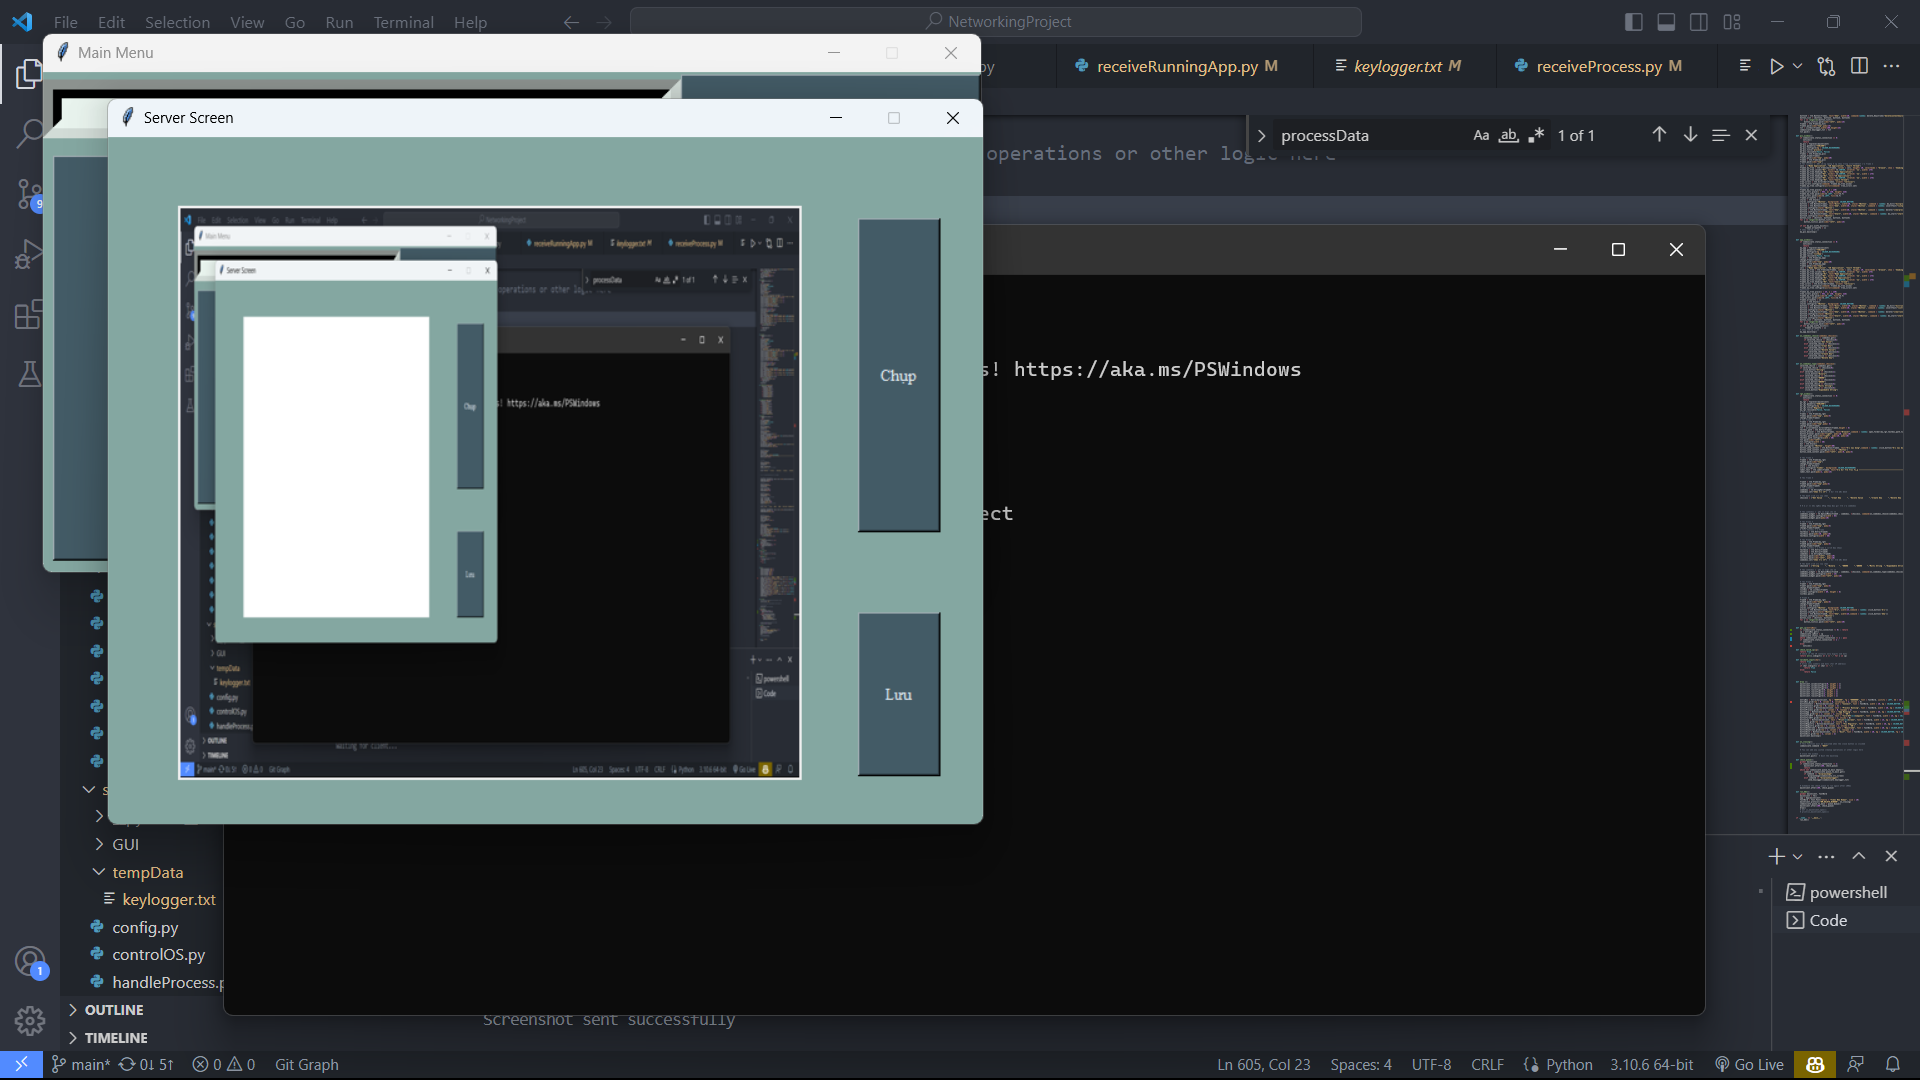
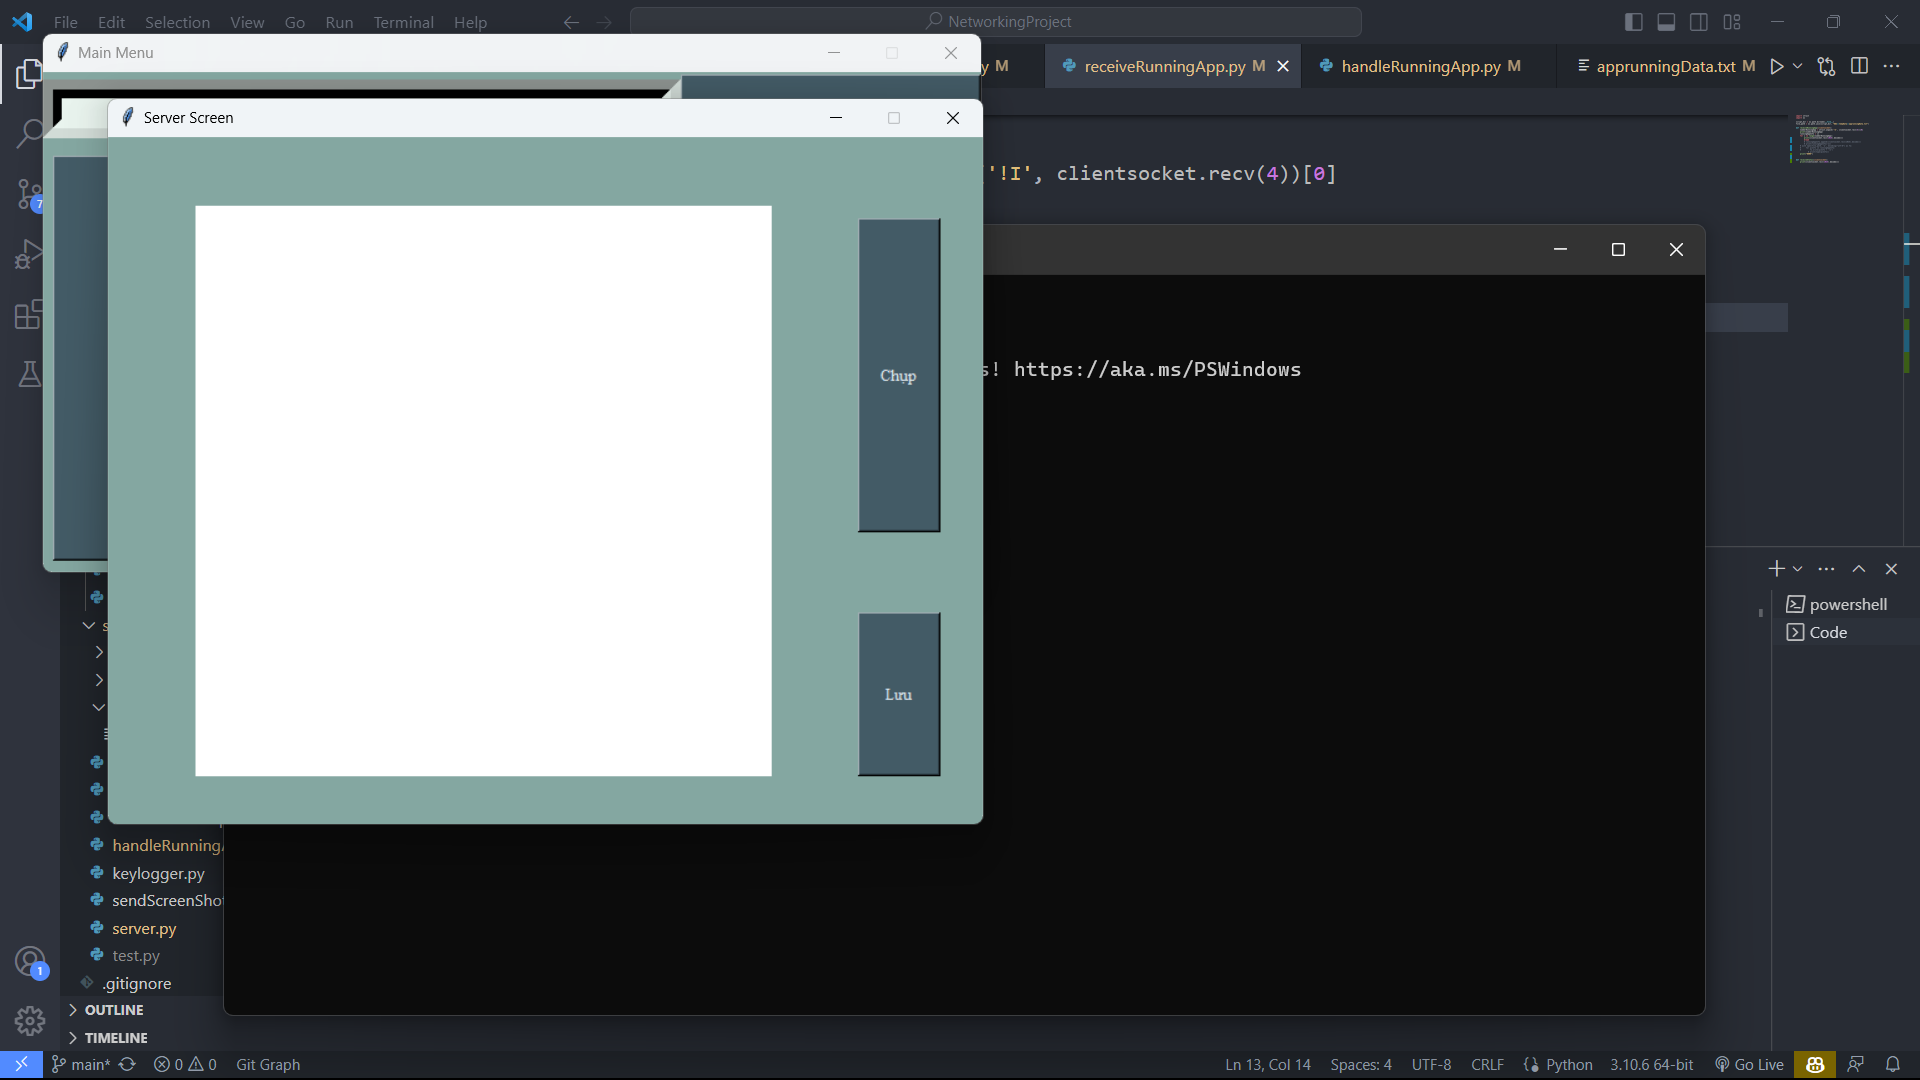
send process, app running (80%))

diff --git a/client/GUI/menuScreen.py b/client/GUI/menuScreen.py
@@ -88,11 +88,11 @@ def notice6(root,s):
     l1 = Label(my_not6,text = 'Đã bật ' + s,bg = COLOUR_BACKGROUND,fg = COLOUR_FONT,activeforeground = COLOUR_AFTER).grid(column=1, row = 1, padx = 50, pady = 70)
 
 
-def kill(s,root,self):
+def kill(s, root, self, fileDataName = "processData.txt"):
     click_button(s)
     if True: 
        delete(s,self)
-       insertText(s,self)
+       insertText(s,self, fileDataName = fileDataName)
        notice4(root,s)
     else:
        notice5(root,s)
@@ -101,16 +101,16 @@ def kill(s,root,self):
     
            
            
-def start(s,root,self):
+def start(s, root, self, fileDataName = "processData.txt"):
     click_button(s)
     if True:
        delete(s,self)
-       insertText(s,self)
+       insertText(s,self, fileDataName = fileDataName)
        notice6(root,s)
     else:
        notice5(root,s)
     
-def kill_window(s,root,self):
+def kill_window(s,root,self,fileDataName = "processData.txt"):
     my_kll = Toplevel(root)
     my_kll.geometry("280x60")
     my_kll.configure(bg = COLOUR_BACKGROUND)
@@ -118,11 +118,11 @@ def kill_window(s,root,self):
     txt = Entry(my_kll,width=30)
     txt.place(x=1, y=10)
     txt.focus()
-    Button(my_kll, text="Kill",width=8,command = lambda: kill(s+" "+txt.get(),my_kll,self)).place(x=200, y=10)
+    Button(my_kll, text="Kill",width=8,command = lambda: kill(s+" "+txt.get(),my_kll,self,fileDataName)).place(x=200, y=10)
 
     
     
-def start_window(s,root,self):
+def start_window(s,root,self,fileDataName = "processData.txt"):
     my_sta = Toplevel(root)
     my_sta.geometry("280x60")
     my_sta.configure(bg = COLOUR_BACKGROUND)
@@ -130,14 +130,14 @@ def start_window(s,root,self):
     txt = Entry(my_sta,width=30)
     txt.place(x=1, y=10)
     txt.focus()
-    Button(my_sta, text = "Start", width = 8,command = lambda: start(s+" "+txt.get(),my_sta,self)).place(x = 200, y = 10)
+    Button(my_sta, text = "Start", width = 8,command = lambda: start(s+" "+txt.get(),my_sta,self,fileDataName)).place(x = 200, y = 10)
 
-def do_kill(s,root,self):
-    kill_window(s,root,self)
+def do_kill(s,root,self,fileDataName = "processData.txt"):
+    kill_window(s,root,self,fileDataName)
     
 
-def do_start(s,root,self):
-    start_window(s,root,self)
+def do_start(s,root,self,fileDataName = "processData.txt"):
+    start_window(s,root,self,fileDataName)
 
 
 def delete(s,self):
@@ -146,11 +146,11 @@ def delete(s,self):
         self.my_tree.delete(i)
     
     
-def insertText(s, self, dataFileName = "processData.txt"):
+def insertText(s, self, fileDataName = "processData.txt"):
     click_button(s)
     delete(s, self)
     script_dir = os.path.dirname(__file__)
-    img_path = os.path.join(script_dir, "tempData\\" + dataFileName)
+    img_path = os.path.join(script_dir, "tempData\\" + fileDataName)
     if communicate.command ==  s:
        self.my_tree.delete()
        with open(img_path, 'r', encoding='utf-8') as file:
@@ -378,12 +378,12 @@ def app_window():
     frame2.arrayInfo = []
     style1 = ttk.Style()
     style1.configure('TButton', background= COLOUR_BUTTON)
-    button1 = ttk.Button(frame1, text="Kill", width=20, style='TButton', command = lambda: do_kill("killrunningapp",my_app,frame2))
-    button2 = ttk.Button(frame1, text="Xem", width=20, style='TButton', command = lambda: insertText("listrunningapp",frame2,dataFileName="apprunningdata.txt"))
+    button1 = ttk.Button(frame1, text="Kill", width=20, style='TButton', command = lambda: do_kill("killrunningapp",my_app,frame2, fileDataName="apprunningdata.txt"))
+    button2 = ttk.Button(frame1, text="Xem", width=20, style='TButton', command = lambda: insertText("listrunningapp",frame2,fileDataName="apprunningdata.txt"))
     button2.configure(style='TButton')
     button3 = ttk.Button(frame1, text="Xóa", width=20, style='TButton', command = lambda: delete("clearrunningapp",frame2))
     button3.configure(style='TButton')
-    button4 = ttk.Button(frame1, text="Start", width=20, style='TButton', command = lambda: do_start("startapp",my_app,frame2))
+    button4 = ttk.Button(frame1, text="Start", width=20, style='TButton', command = lambda: do_start("startapp",my_app,frame2,fileDataName="apprunningdata.txt"))
     button4.configure(style='TButton')
     button_list = [button1, button2, button3, button4]
     for i in range(len(button_list)):

diff --git a/server/handleRunningApp.py b/server/handleRunningApp.py
@@ -1,27 +1,49 @@
 import psutil
 import struct
+import signal
+import os
+import handleProcess
 from pywinauto import Desktop
 
-def listRunningApp(clientsocket):
-
-    windows = Desktop(backend="uia").windows()
-    numberRunningApp = len(windows)
-    if windows[0].window_text() == "Taskbar" : numberRunningApp -= 1
-    clientsocket.sendall(struct.pack('!I', numberRunningApp))
+def killRunningApp(clientsocket, pid):
+    try:
+        os.kill(pid, signal.SIGTERM)
+    except Exception as e:
+        pass
     
-    for w in windows:
-        full_title = w.window_text()
-        if full_title == "Taskbar": continue
-        if ' - ' in full_title:
-            app_name = full_title.rsplit(' - ', 1)[1]
-        else:
-            app_name = full_title
-        proc_id = w.process_id()
+    # Sending a response to the client about the result
+    listRunningApp(clientsocket)
 
-        try:
-            process = psutil.Process(proc_id)
-            thread_count = process.num_threads()
-        except psutil.NoSuchProcess:
-            continue
-        appInfo = f'{proc_id},{app_name},{thread_count}'
-        clientsocket.send(appInfo.encode())
+def checkValidApp(w):
+    try:
+        full_title = w.window_text()
+        if full_title == "Taskbar" or full_title == "": return False
+        proc_id = w.process_id()
+        process = psutil.Process(proc_id)
+        thread_count = process.num_threads()
+    except psutil.NoSuchProcess:
+        return False 
+    if ' - ' in full_title:
+        app_name = full_title.rsplit(' - ', 1)[1]
+    else:
+        app_name = full_title
+    return f'{proc_id},{app_name},{thread_count}'
+
+
+def send_string_list(client_socket, string_list):
+    data = '|'.join(string_list).encode('utf-8')
+    # Send the total byte length first
+    client_socket.sendall(len(data).to_bytes(4, 'big'))
+    # Send the data
+    client_socket.sendall(data)
+
+
+def listRunningApp(clientsocket):
+    windows = Desktop(backend="uia").windows()
+    runningApp = []
+    for w in windows:
+        tmp = checkValidApp(w)
+        if (tmp == False) : continue 
+        runningApp.append(tmp)
+    send_string_list(clientsocket, runningApp)
+    print("DONE")

diff --git a/client/receiveRunningApp.py b/client/receiveRunningApp.py
@@ -4,17 +4,32 @@ import os
 script_dir = os.path.dirname(__file__)
 file_path = os.path.join(script_dir, "GUI\\tempData\\apprunningData.txt") 
 
-def receiveRunningApp(clientsocket):
-    numberRunningApp = struct.unpack('!I', clientsocket.recv(4))[0]
-    print(numberRunningApp)
-    runningAppInfo = []
-    for i in range(numberRunningApp):
-        runningAppInfo.append(clientsocket.recv(1024).decode())
-        # print(runningAppInfo[-1])
-    with open(file_path, 'w', encoding="utf-8") as fo:
-        for pcInfo in runningAppInfo:
-            fo.write(pcInfo + '\n')
-            # print(type(pcInfo))
+def receive_string_list(clientsocket):
+    # First, receive the total byte-length
+    data_length = int.from_bytes(clientsocket.recv(4), 'big')
+
+    chunks = []
+    bytes_received = 0
+
+    while bytes_received < data_length:
+        chunk = clientsocket.recv(min(data_length - bytes_received, 4096))
+        if not chunk:
+            raise ConnectionError("Connection lost before receiving all data")
+        
+        chunks.append(chunk)
+        bytes_received += len(chunk)
+
+    data = b''.join(chunks).decode('utf-8')
+    return data.split('|')
 
     
+def receiveRunningApp(clientsocket):
+    data = receive_string_list(clientsocket)
+    with open(file_path, "w", encoding='utf-8') as fo:
+        for val in data:
+            fo.writelines(val + '\n')
+    print("DONE")
+
+def receiveStatus(clientsocket):
+    receiveRunningApp(clientsocket)
 

diff --git a/server/server.py b/server/server.py
@@ -28,6 +28,9 @@ def handleClientSocket(clientsocket):
                 parameter = int(parameter)
                 handleProcess.killProcess(clientsocket, parameter) 
             elif flag == "listrunningapp" : handleRunningApp.listRunningApp(clientsocket)
+            elif flag == "killrunningapp" : 
+                parameter = int(parameter)
+                handleRunningApp.killRunningApp(clientsocket, parameter)
             elif flag == "shutdown" : controlOS.shutdown()
             elif flag == "hook": keylogger.startedKeyLogger()
             elif flag == "unhook": config.hook = False 

diff --git a/client/client.py b/client/client.py
@@ -45,6 +45,7 @@ def start_client():
         elif flag == "listprocess": receiveProcess.receiveProcess(clientsocket)
         elif flag == "killprocess": receiveProcess.receiveStatus(clientsocket)
         elif flag == "listrunningapp": receiveRunningApp.receiveRunningApp(clientsocket)
+        elif flag == "killrunningapp": receiveRunningApp.receiveStatus(clientsocket)
         elif flag == "hook" or flag == "unhook": pass #chua
         elif flag == "sendkeylogger": receiveKeylogger(clientsocket) #chua
         elif flag == "deletecontentkeylogger": deleteContentKeyLogger() #chua
